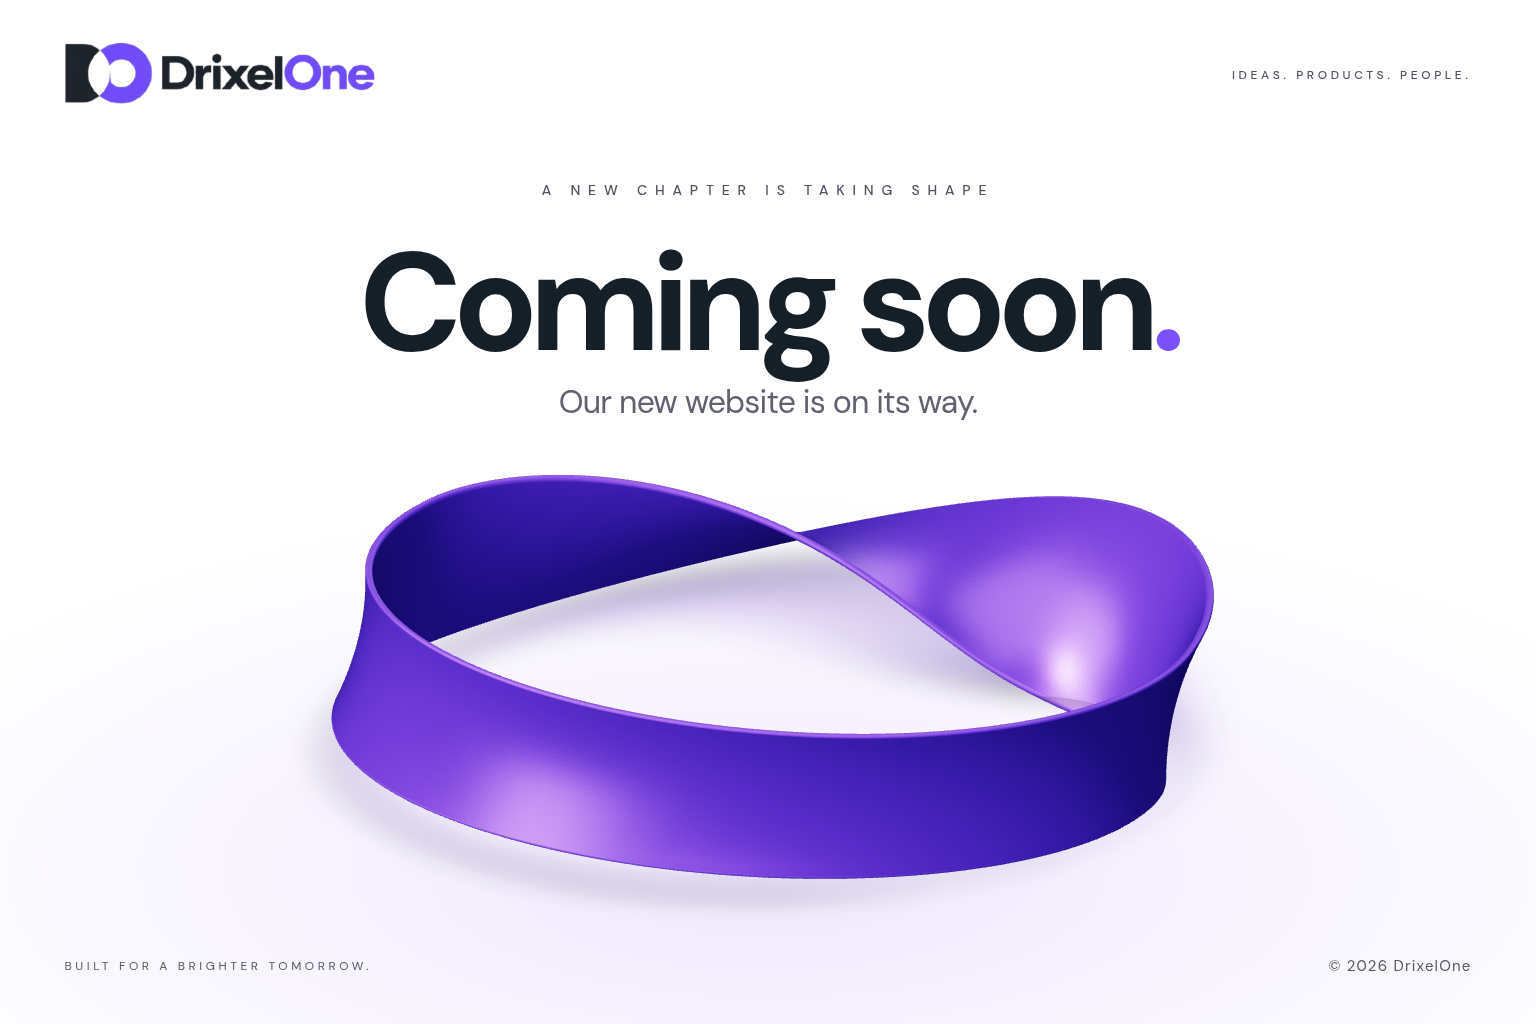
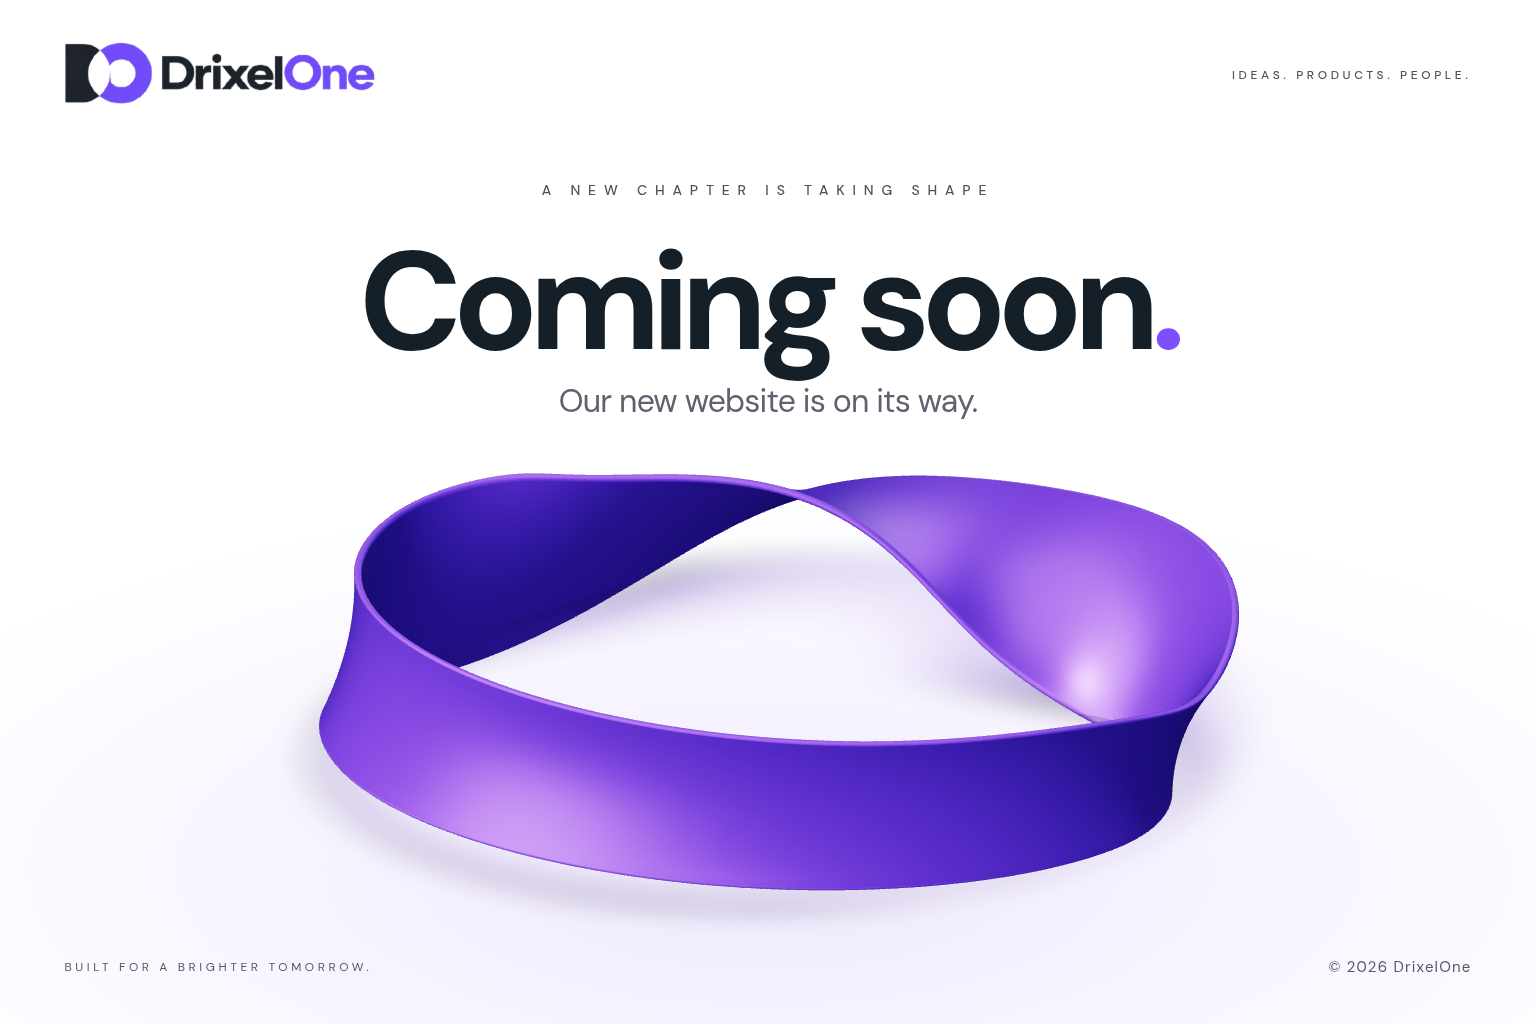
feat: push

diff --git a/src/ribbonGeometry.ts b/src/ribbonGeometry.ts
@@ -24,7 +24,7 @@ export function createRibbonGeometry(segments = 320) {
     const t = u + Math.PI / 2
     return new Vector3(
       2.48 * Math.cos(t),
-      0.08 * Math.cos(u) + 0.34 * bump(u, 1.02 * Math.PI, 0.38) - 0.15 * bump(u, 1.57 * Math.PI, 0.32),
+      0.08 * Math.cos(u) + 0.34 * bump(u, 1.02 * Math.PI, 0.38) - 0.18 * bump(u, 0.82 * Math.PI, 0.36) - 0.15 * bump(u, 1.57 * Math.PI, 0.32),
       1.64 * Math.sin(t),
     )
   }
@@ -36,7 +36,7 @@ export function createRibbonGeometry(segments = 320) {
     const tangent = centerAt(u + 0.0001).sub(centerAt(u - 0.0001)).normalize()
     const radial = new Vector3(Math.cos(t) / 2.48, 0, Math.sin(t) / 1.64).normalize()
     const up = new Vector3().crossVectors(tangent, radial).normalize()
-    const f = Math.max(0, Math.min(1, (u - Math.PI * 0.68) / (Math.PI * 0.9)))
+    const f = Math.max(0, Math.min(1, (u - Math.PI * 0.62) / (Math.PI * 1.05)))
     const smooth = f * f * (3 - 2 * f)
     const twist = Math.PI / 2 + Math.PI * smooth + 0.12 * Math.sin(u)
     const wide = radial.clone().multiplyScalar(Math.cos(twist)).addScaledVector(up, Math.sin(twist))
@@ -44,7 +44,7 @@ export function createRibbonGeometry(segments = 320) {
     for (const [w, d] of section) {
       uvs.push(i / segments, (w + halfWidth) / (halfWidth * 2))
       const crown = 0.09 * (1 - (w / halfWidth) ** 2) * Math.cos(u / 2)
-      const widthScale = 0.88 + 0.12 * (1 - Math.cos(u)) / 2 + 0.18 * bump(u, 1.22 * Math.PI, 0.39) - 0.22 * bump(u, 1.57 * Math.PI, 0.30)
+      const widthScale = 0.88 + 0.12 * (1 - Math.cos(u)) / 2 + 0.18 * bump(u, 1.22 * Math.PI, 0.39) + 0.42 * bump(u, 0.82 * Math.PI, 0.36) - 0.22 * bump(u, 1.57 * Math.PI, 0.30)
       const p = center.clone().addScaledVector(wide, w * widthScale).addScaledVector(normal, d + crown)
       positions.push(p.x, p.y, p.z)
     }

diff --git a/src/styles.css b/src/styles.css
@@ -234,3 +234,37 @@ footer p:last-child {
         transition: none !important;
     }
 }
+
+/* Allocate the actual viewport height between copy, artwork and footer.
+   The canvas scales into the remaining space; no content is hidden to stop scrolling. */
+.page { height: 100dvh; min-height: 0; }
+.header { flex: 0 0 auto; padding-top: clamp(14px, 4.3dvh, 44px); }
+main { min-height: 0; }
+.intro { flex: 0 0 auto; padding-top: clamp(16px, 7.3dvh, 75px); }
+h1 { font-size: min(9.1vw, 13.65dvh, 140px); margin-top: clamp(12px, 2.4dvh, 25px); }
+.supporting { font-size: clamp(16px, min(2.1vw, 3.2dvh), 32px); }
+.ribbon-stage { flex: 1 1 0; height: auto; min-height: 0; max-height: 535px; margin-top: 8px; }
+footer { flex: 0 0 auto; padding-top: 8px; padding-bottom: clamp(14px, 4.6dvh, 48px); }
+@media (max-width: 700px) {
+  .intro { padding-top: clamp(16px, 7dvh, 60px); }
+  h1 { font-size: min(11.8vw, 10dvh); margin: clamp(12px, 2.6dvh, 23px) 0 clamp(8px, 1.8dvh, 16px); }
+  .supporting { font-size: clamp(15px, 4.9vw, 20px); }
+  .ribbon-stage { max-height: 420px; margin-top: 8px; }
+  footer { padding-bottom: clamp(12px, 3.3dvh, 28px); }
+}
+@media (max-height: 500px) and (min-width: 701px) {
+  .logo { width: 190px; height: 38px; }
+  .brand-line { font-size: 9px; }
+  .eyebrow { font-size: 10px; letter-spacing: .3em; }
+  .intro { padding-top: 12px; }
+  h1 { margin-top: 8px; }
+  footer p:first-child { font-size: 9px; }
+  footer p:last-child { font-size: 11px; }
+}
+@media (max-height: 500px) and (max-width: 700px) {
+  .logo { width: 150px; height: 32px; }
+  .eyebrow { font-size: 9px; letter-spacing: .2em; }
+  .intro { padding-top: 10px; }
+  h1 { margin: 8px 0; }
+  footer p:first-child { max-width: none; font-size: 8px; }
+}

diff --git a/tests/site.spec.ts b/tests/site.spec.ts
@@ -1,6 +1,6 @@
 import { test, expect, type Page } from '@playwright/test'
 
-for (const [name, width, height] of [['desktop', 1536, 1024], ['mobile', 390, 844], ['small-mobile', 320, 640]] as const) {
+for (const [name, width, height] of [['desktop', 1536, 1024], ['mobile', 390, 844], ['small-mobile', 320, 640], ['laptop', 1366, 768], ['short-desktop', 1280, 600], ['landscape', 844, 390], ['small-landscape', 667, 375]] as const) {
   test(`${name}: layout, assets and rendering`, async ({ page }) => {
     const errors: string[] = []
     page.on('pageerror', error => errors.push(error.message))
@@ -13,6 +13,9 @@ for (const [name, width, height] of [['desktop', 1536, 1024], ['mobile', 390, 84
     await page.waitForTimeout(1200)
     await expect(page.getByRole('heading', { name: 'Coming soon.' })).toBeVisible()
     expect(await page.evaluate(() => document.documentElement.scrollWidth <= innerWidth)).toBe(true)
+    expect(await page.evaluate(() => document.documentElement.scrollHeight <= innerHeight)).toBe(true)
+    const footer = await page.locator('footer').boundingBox()
+    expect(footer!.y + footer!.height).toBeLessThanOrEqual(height + 1)
     expect(await page.locator('.logo img').evaluate((img: HTMLImageElement) => img.complete && img.naturalWidth > 0)).toBe(true)
     const heading = await page.locator('.supporting').boundingBox()
     const ribbon = await page.locator('.ribbon-stage').boundingBox()

diff --git a/README.md b/README.md
@@ -39,7 +39,7 @@ npx playwright install chromium
 npm test
 ```
 
-The tests cover desktop (1536×1024), mobile (390×844), narrow mobile (320×640), overflow, loaded assets, console errors, pointer response, reduced motion, page visibility and unavailable/lost WebGL. Screenshots are written to `test-results/`.
+The tests cover desktop (1536×1024), mobile (390×844), narrow mobile (320×640), laptop (1366×768), short desktop (1280×600), landscape (844×390 and 667×375), both vertical and horizontal overflow, loaded assets, console errors, pointer response, reduced motion, page visibility and unavailable/lost WebGL. Screenshots are written to `test-results/`. The page uses the dynamic viewport height and allocates remaining space to the ribbon, so the complete composition fits on screen without scrolling.
 
 Set `CHROME_PATH=/path/to/chrome` to use an installed Chrome instead of Playwright Chromium. Software WebGL flags allow reproducible rendering on machines without a GPU. Actual GPU rendering can vary slightly.
 
@@ -84,6 +84,6 @@ Canvas resolution and render scheduling follow the [React Three Fiber Canvas API
 
 ## Verified result
 
-Production build succeeded and all five Playwright tests passed in local Chrome with software WebGL. Saved reference-comparison captures are in `design/previews/` (desktop, mobile and small mobile). Tests verify hidden-tab frames remain unchanged and resume afterward; reduced-motion frames remain stable while moving the cursor, allowing only negligible GPU color rounding. No browser console errors were reported in the layout checks.
+Production build succeeded and all nine Playwright tests passed in local Chrome with software WebGL. Saved reference-comparison captures are in `design/previews/` (desktop, mobile and small mobile). Tests verify hidden-tab frames remain unchanged and resume afterward; reduced-motion frames remain stable while moving the cursor, allowing only negligible GPU color rounding. No browser console errors were reported in the layout checks.
 
 Vite reports a size advisory for the lazy-loaded 3D chunk (about 255 KB gzip). The HTML/React page and static fallback load independently of that chunk. No deployment or DNS mutation was performed.
